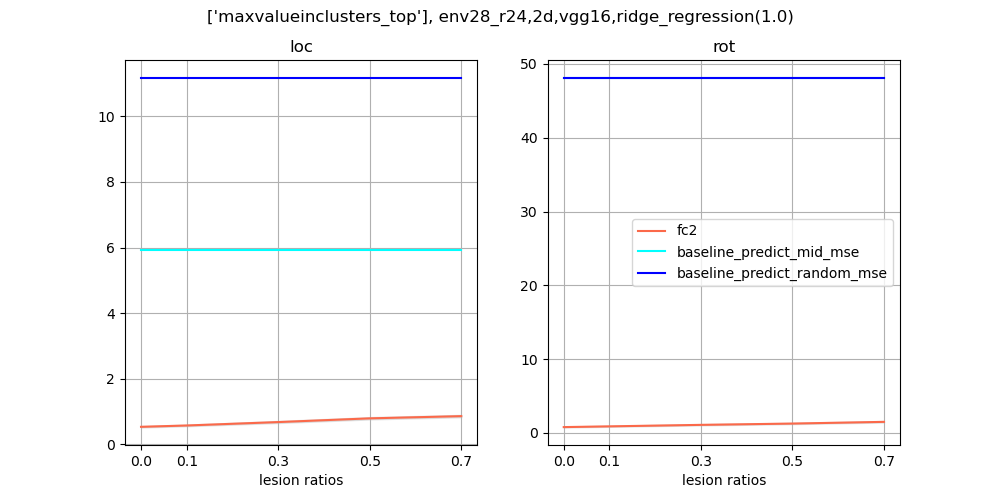
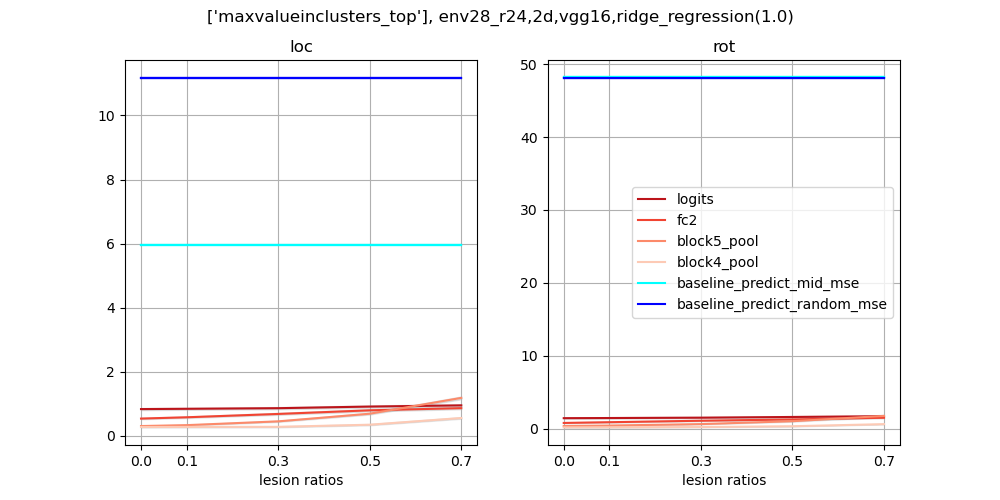
update figs: add more layers consistent with other metrics

diff --git a/location_n_rotation_prediction.py b/location_n_rotation_prediction.py
@@ -1349,9 +1349,9 @@ if __name__ == '__main__':
     decoding_model_choices = [{'name': 'ridge_regression', 'hparams': 1.0}]
     experiment = 'loc_n_rot'
     reference_experiment = 'unit_chart'   #'loc_n_rot|border_dist|unit_chart'
-    metric = 'directioness'
+    metric = 'maxvalueinclusters'
     thr = '0'                            # if metric=='coef', thr='thr', else '0'
-    rank = 'random'
+    rank = 'top'
     target = ''                          # if metric=='coef', target='_loc|_rot', else ''
     feature_selections = [
         'l2',
